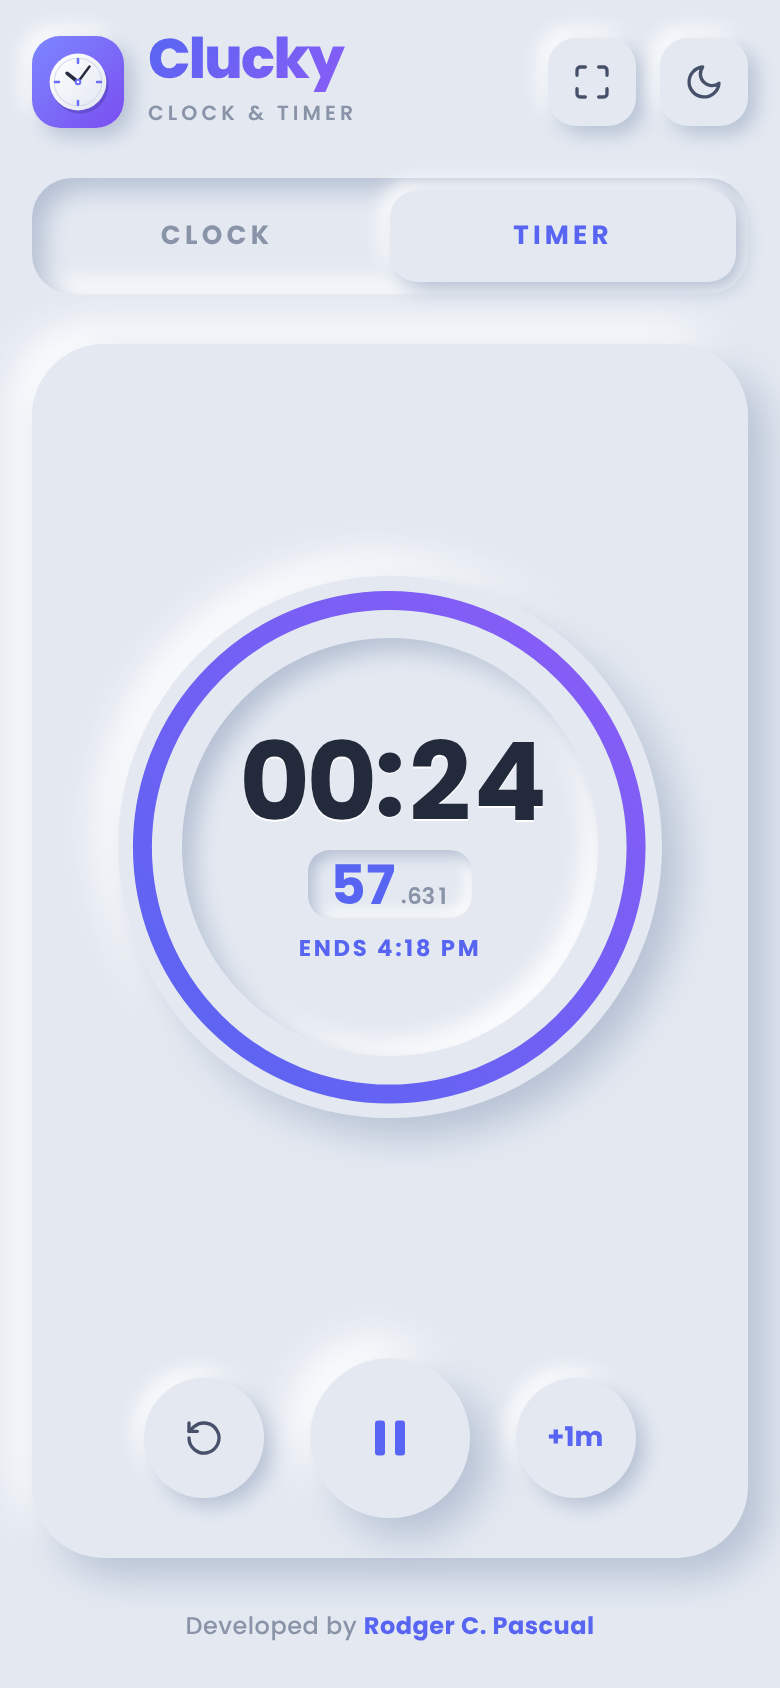
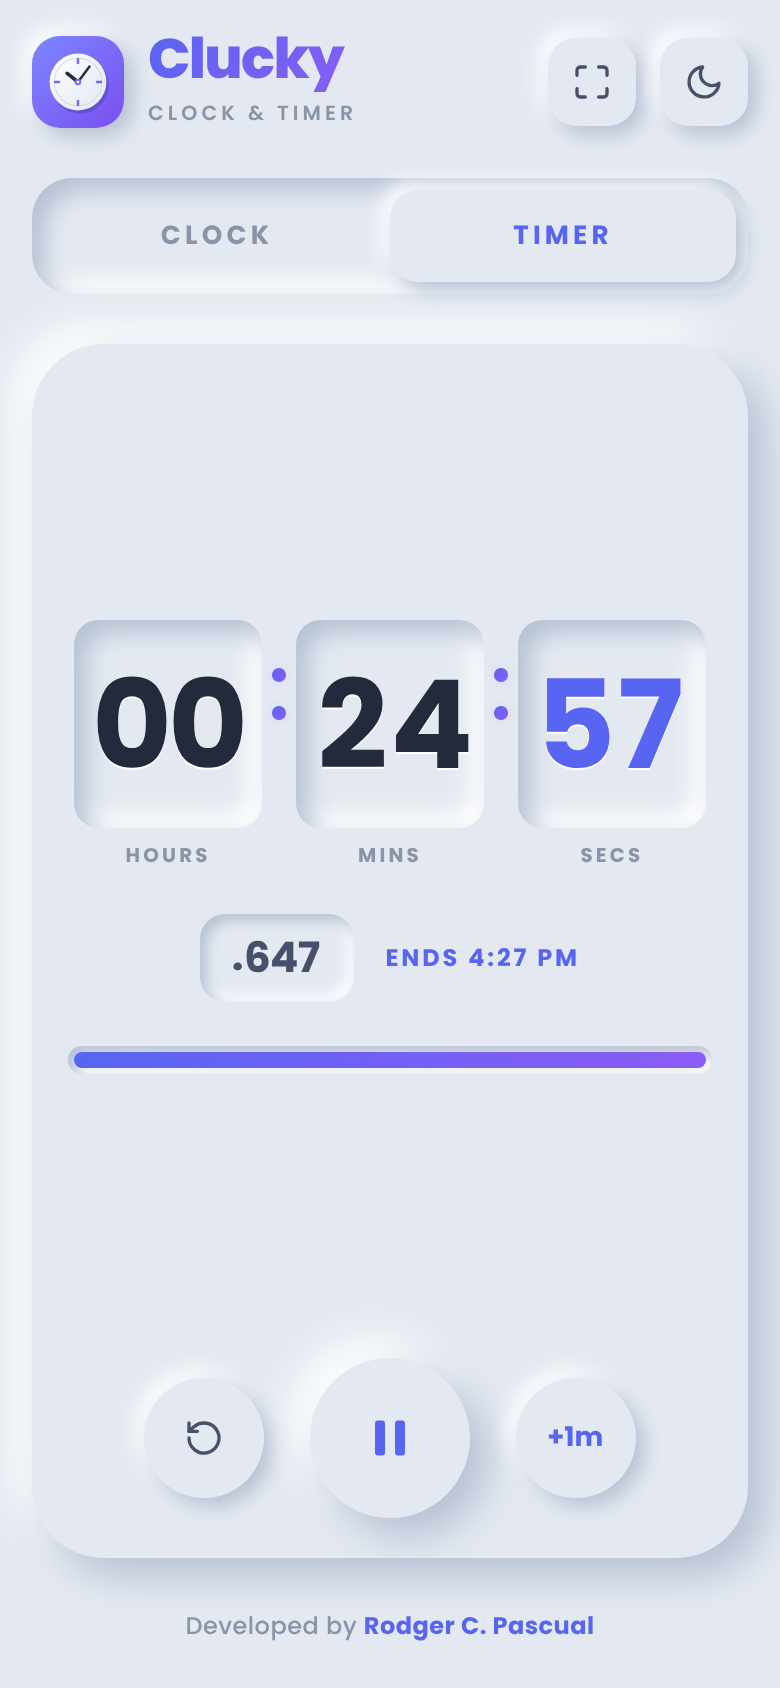
Replace timer ring with HH/MM/SS tiles and a draining progress bar
The running timer now matches the clock's look: hours, minutes and
seconds each sit in their own inset tile (with labels) inside the card,
milliseconds and the end time sit in a row below, and a progress bar
drains from full to empty as time runs out. Tiles and bar turn amber in
the last 10 seconds and red when time is up.

Sizes scale per screen (phones, landscape phones, tablets, desktop and
focus mode), and countdowns of 100+ hours shrink the tiles to fit.

Claude-Session: https://claude.ai/code/session_01WfvoktpLXkoSJQ23K4QYkQ

Changed region(s): [[0.0923, 0.3389, 0.9231, 0.6777]]

diff --git a/styles.css b/styles.css
@@ -541,83 +541,88 @@ select option { background: var(--bg); color: var(--text); }
 }
 .hint.bad { color: var(--danger); }
 
-/* ---------- Timer: ring ---------- */
-.ring {
-    position: relative;
-    container-type: inline-size;
-    width: min(84cqi, 20rem);
-    aspect-ratio: 1;
-    border-radius: 50%;
-}
-.ring svg {
-    position: absolute;
-    inset: 0;
+/* ---------- Timer: running display ---------- */
+.timer-run {
     width: 100%;
-    height: 100%;
-    transform: rotate(-90deg);
-}
-.ring-track { fill: none; stroke: var(--accent-soft); stroke-width: 6; }
-.ring-bar {
-    fill: none;
-    stroke: url(#ring-grad);
-    stroke-width: 7;
-    stroke-linecap: round;
-    stroke-dasharray: 571.77;
-    stroke-dashoffset: 0;
-    transition: stroke .3s ease;
-}
-.ring-inner {
-    position: absolute;
-    inset: 11.5%;
-    border-radius: 50%;
     display: flex;
     flex-direction: column;
     align-items: center;
-    justify-content: center;
-    gap: 2.5cqi;
+    gap: clamp(14px, 2.6vh, 26px);
 }
-.timer-digits {
-    font-size: 20cqi;
-    color: var(--text-strong);
-    text-shadow: 0 .015em 0 var(--sh-light);
-}
-/* 3+ digit hours (long target-time countdowns) */
-.timer-digits[data-len="6"] { font-size: 16.5cqi; }
-.timer-digits[data-len="7"] { font-size: 14cqi; }
-.timer-digits[data-len="8"] { font-size: 12.5cqi; }
+.timer-run.is-done { cursor: pointer; }
 
-/* Seconds + milliseconds, same style as the clock's seconds pill */
-.timer-sec-pill {
+.timer-tiles {
     display: flex;
-    align-items: baseline;
-    padding: .14em .42em;
-    border-radius: .4em;
-    font-size: 10cqi;
+    align-items: flex-start;
+    justify-content: center;
+    gap: .06em;
+    --tscale: 1;
+    font-size: min(16vw, 6rem);
+    font-size: calc(min(19cqi, 6.5rem) * var(--tscale));
 }
-.timer-sec-pill > .digits:first-child { color: var(--accent); }
-.ring.is-warn .timer-sec-pill > .digits:first-child { color: var(--warn); }
-.ring.is-done .timer-sec-pill > .digits:first-child { color: var(--danger); }
+/* Countdowns of 100+ hours get a third/fourth hour digit: shrink to fit. */
+.timer-tiles[data-hlen="3"] { --tscale: .86; }
+.timer-tiles[data-hlen="4"] { --tscale: .75; }
 
+.t-unit { display: flex; flex-direction: column; align-items: center; gap: .12em; }
+.t-label {
+    font-size: max(.62rem, .11em);
+    font-weight: 700;
+    letter-spacing: .16em;
+    text-transform: uppercase;
+    color: var(--muted);
+}
+.timer-tiles .colon { height: 1.2em; justify-content: center; }
+.timer-tiles .tile .digits { color: var(--text-strong); }
+.timer-tiles .sec-tile .digits { color: var(--accent); }
+
+.timer-sub {
+    display: flex;
+    flex-wrap: wrap;
+    align-items: center;
+    justify-content: center;
+    gap: 10px 16px;
+}
+.ms-pill {
+    padding: .3em .75em;
+    border-radius: .6em;
+    font-size: min(6.5cqi, 1.6rem);
+}
+.ms-pill .digits { color: var(--text); }
 .timer-label {
-    min-height: 1.3em;
-    font-size: 4.2cqi;
+    font-size: clamp(.75rem, 2.8cqi, 1.05rem);
     font-weight: 700;
     letter-spacing: .12em;
     text-transform: uppercase;
     color: var(--accent);
 }
 
-.ring.is-paused .timer-digits { animation: blink 1.6s ease-in-out infinite; }
-.ring.is-warn .ring-bar { stroke: var(--warn); }
-.ring.is-warn .timer-digits { color: var(--warn); }
-.ring.is-done .ring-bar { stroke: var(--danger); }
-.ring.is-done .timer-digits,
-.ring.is-done .timer-label { color: var(--danger); }
-.ring.is-done .timer-digits { animation: pulse-alert 1s ease-in-out infinite; }
-.ring.is-done { cursor: pointer; }
+.timer-track {
+    width: 100%;
+    max-width: 30rem;
+    height: 14px;
+    padding: 3px;
+    border-radius: 999px;
+    overflow: hidden;
+}
+.timer-fill {
+    width: 100%;
+    height: 100%;
+    border-radius: 999px;
+    background: linear-gradient(90deg, var(--accent), var(--accent-2));
+    transition: background .3s ease;
+}
+
+.timer-run.is-paused .timer-tiles .digits { animation: blink 1.6s ease-in-out infinite; }
+.timer-run.is-warn .timer-tiles .digits,
+.timer-run.is-warn .timer-label { color: var(--warn); }
+.timer-run.is-warn .timer-fill { background: var(--warn); }
+.timer-run.is-done .timer-tiles .digits,
+.timer-run.is-done .timer-label { color: var(--danger); }
+.timer-run.is-done .timer-tiles .tile { animation: pulse-alert 1s ease-in-out infinite; }
 
 @keyframes blink { 50% { opacity: .35; } }
-@keyframes pulse-alert { 50% { transform: scale(1.06); } }
+@keyframes pulse-alert { 50% { transform: scale(1.05); } }
 
 /* ---------- Timer: controls ---------- */
 .controls {
@@ -705,7 +710,8 @@ body.focus .sec-pill { font-size: min(10cqi, 9vh); }
 body.focus .ampm { font-size: min(4.5cqi, 3.6vh); }
 body.focus .sec-track { max-width: 34rem; }
 body.focus .clock-date { font-size: clamp(.95rem, 2.4vh, 1.4rem); }
-body.focus .ring { width: min(84cqi, 62vh); }
+body.focus .timer-tiles { font-size: calc(min(19cqi, 30vh) * var(--tscale)); font-size: calc(min(19cqi, 30svh) * var(--tscale)); }
+body.focus .timer-track { max-width: 44rem; }
 
 /* ---------- Landscape phones ---------- */
 @media (orientation: landscape) and (max-height: 560px) {
@@ -744,14 +750,16 @@ body.focus .ring { width: min(84cqi, 62vh); }
     .field input, .field select { height: 40px; }
     .target { gap: 8px; }
     .hint { margin: 0; }
-    .ring { width: min(50cqi, 48vh); width: min(50cqi, 48svh); }
+    .timer-tiles { font-size: calc(min(13cqi, 36vh - 72px) * var(--tscale)); font-size: calc(min(13cqi, 36svh - 72px) * var(--tscale)); }
+    .timer-run { gap: 10px; }
+    .timer-track { height: 10px; padding: 2px; }
     .controls { grid-column: 2; grid-row: 2; flex-direction: column; gap: 14px; min-height: 0; }
     .round { width: 50px; height: 50px; }
     .round.big { width: 64px; height: 64px; }
 
     body.focus .clock-main { font-size: min(20cqi, 48vh); font-size: min(20cqi, 48svh); }
     body.focus .sec-pill { font-size: min(7cqi, 11vh); font-size: min(7cqi, 11svh); }
-    body.focus .ring { width: min(60cqi, 78vh); width: min(60cqi, 78svh); }
+    body.focus .timer-tiles { font-size: calc(min(15cqi, 30vh) * var(--tscale)); font-size: calc(min(15cqi, 30svh) * var(--tscale)); }
 }
 
 /* ---------- Wide screens (landscape phones, tablets, desktops) ----------
@@ -805,7 +813,9 @@ body.focus .ring { width: min(84cqi, 62vh); }
     .target { max-width: 28rem; }
     .field input, .field select { height: 56px; font-size: 1.05rem; }
     .hint { font-size: 1rem; }
-    .ring { width: min(72cqi, 54vh); width: min(72cqi, 54svh); }
+    .timer-tiles { font-size: calc(min(19cqi, 19vh) * var(--tscale)); font-size: calc(min(19cqi, 19svh) * var(--tscale)); }
+    .ms-pill { font-size: min(5cqi, 3.4vh); font-size: min(5cqi, 3.4svh); }
+    .timer-track { max-width: 44rem; height: 16px; }
     .round { width: 72px; height: 72px; }
     .round.big { width: 98px; height: 98px; }
     .round.big .icon { width: 36px; height: 36px; }
@@ -813,7 +823,7 @@ body.focus .ring { width: min(84cqi, 62vh); }
     .footer { font-size: .85rem; }
 
     body.focus .clock-main { font-size: min(27cqi, 40vh); font-size: min(27cqi, 40svh); }
-    body.focus .ring { width: min(80cqi, 70vh); width: min(80cqi, 70svh); }
+    body.focus .timer-tiles { font-size: calc(min(19cqi, 30vh) * var(--tscale)); font-size: calc(min(19cqi, 30svh) * var(--tscale)); }
 }
 
 /* ---------- Notice ---------- */

diff --git a/app.js b/app.js
@@ -438,8 +438,6 @@
     // ---------------------------------------------------------------
     // Timer
     // ---------------------------------------------------------------
-    const RING_C = 2 * Math.PI * 91;
-
     const inputH = $('input-h');
     const inputM = $('input-m');
     const inputS = $('input-s');
@@ -452,9 +450,11 @@
     const inputTargetTime = $('input-target-time');
     const inputTargetTz = $('input-target-tz');
     const targetHint = $('target-hint');
-    const ring = $('timer-run');
-    const ringBar = $('ring-bar');
-    const timerDigits = $('timer-digits');
+    const runView = $('timer-run');
+    const timerTiles = $('timer-tiles');
+    const timerH = $('timer-h');
+    const timerM = $('timer-m');
+    const timerFill = $('timer-fill');
     const timerS = $('timer-s');
     const timerMs = $('timer-ms');
     const timerLabel = $('timer-label');
@@ -548,15 +548,16 @@
         updateTargetHint(Date.now());
     });
 
-    // Exact remaining time, laid out like the clock: "HH:MM" big, then "SS" and ".mmm".
-    // A 5-minute timer reads 00:05 · 00.000 when it starts and 00:00 · 00.000 when it rings.
+    // Exact remaining time as HH / MM / SS / .mmm.
+    // A 5-minute timer reads 00:05:00.000 when it starts and 00:00:00.000 when it rings.
     function formatCountdown(ms) {
         ms = Math.max(0, Math.floor(ms));
         const totalSec = Math.floor(ms / 1000);
-        const hm = `${pad(Math.floor(totalSec / 3600))}:${pad(Math.floor((totalSec % 3600) / 60))}`;
+        const hh = pad(Math.floor(totalSec / 3600));
+        const mm = pad(Math.floor((totalSec % 3600) / 60));
         const ss = pad(totalSec % 60);
         const mmm = '.' + pad(ms % 1000, 3);
-        return { hm, ss, mmm, full: `${hm}:${ss}` };
+        return { hh, mm, ss, mmm, full: `${hh}:${mm}:${ss}` };
     }
 
     function updateTargetHint(now) {
@@ -669,7 +670,7 @@
     btnPause.addEventListener('click', pauseTimer);
     btnReset.addEventListener('click', resetTimer);
     btnAdd.addEventListener('click', addMinute);
-    ring.addEventListener('click', () => { if (timer.state === 'done') stopAlarm(); });
+    runView.addEventListener('click', () => { if (timer.state === 'done') stopAlarm(); });
 
     const endFmt = (epoch) => new Date(epoch).toLocaleTimeString('en-US', {
         hour: 'numeric', minute: '2-digit', hour12: !settings.h24,
@@ -684,16 +685,16 @@
         modeGroup.hidden = !idle;
         setupDuration.hidden = !idle || settings.mode !== 'duration';
         setupTarget.hidden = !idle || settings.mode !== 'target';
-        ring.hidden = idle;
+        runView.hidden = idle;
 
         btnStart.hidden = !(idle || s === 'paused' || (s === 'done' && durationRun));
         btnStart.setAttribute('aria-label', s === 'paused' ? 'Resume' : s === 'done' ? 'Restart' : 'Start');
         btnPause.hidden = !(s === 'running' && durationRun);
         btnAdd.hidden = !(durationRun && (s === 'running' || s === 'paused' || s === 'done'));
 
-        ring.classList.toggle('is-paused', s === 'paused');
-        ring.classList.toggle('is-done', s === 'done');
-        if (s !== 'running') ring.classList.remove('is-warn');
+        runView.classList.toggle('is-paused', s === 'paused');
+        runView.classList.toggle('is-done', s === 'done');
+        if (s !== 'running') runView.classList.remove('is-warn');
 
         if (s === 'running') timerLabel.textContent = `Ends ${endFmt(timer.endAt)}`;
         else if (s === 'paused') timerLabel.textContent = 'Paused';
@@ -715,15 +716,17 @@
             : timer.state === 'paused' ? timer.remaining : 0;
 
         const c = formatCountdown(rem);
-        renderDigits(timerDigits, c.hm);
+        renderDigits(timerH, c.hh);
+        renderDigits(timerM, c.mm);
         renderDigits(timerS, c.ss);
         renderDigits(timerMs, c.mmm);
-        timerDigits.dataset.len = c.hm.length;
+        timerTiles.dataset.hlen = String(c.hh.length);
         const str = c.full;
 
+        // Progress bar drains from full to empty as time runs out.
         const progress = timer.total > 0 ? Math.min(1, rem / timer.total) : 0;
-        ringBar.style.strokeDashoffset = String(RING_C * (1 - progress));
-        ring.classList.toggle('is-warn', timer.state === 'running' && rem <= 10000);
+        timerFill.style.width = `${(progress * 100).toFixed(3)}%`;
+        runView.classList.toggle('is-warn', timer.state === 'running' && rem <= 10000);
 
         const title = timer.state === 'done' ? "⏰ Time's up · Clucky"
             : `${timer.state === 'paused' ? '❚❚' : '▶'} ${str} · Clucky`;

diff --git a/index.html b/index.html
@@ -178,24 +178,28 @@
                     </div>
 
                     <!-- Running display -->
-                    <div id="timer-run" class="ring neu-out" hidden>
-                        <svg viewBox="0 0 200 200" aria-hidden="true">
-                            <defs>
-                                <linearGradient id="ring-grad" x1="0" y1="0" x2="1" y2="1">
-                                    <stop offset="0" style="stop-color:var(--accent)"/>
-                                    <stop offset="1" style="stop-color:var(--accent-2)"/>
-                                </linearGradient>
-                            </defs>
-                            <circle class="ring-track" cx="100" cy="100" r="91"/>
-                            <circle id="ring-bar" class="ring-bar" cx="100" cy="100" r="91"/>
-                        </svg>
-                        <div class="ring-inner neu-in" id="ring-inner">
-                            <div id="timer-digits" class="digits timer-digits" role="timer">00:00</div>
-                            <div class="timer-sec-pill neu-in-sm">
-                                <span id="timer-s" class="digits">00</span><span id="timer-ms" class="digits ms">.000</span>
+                    <div id="timer-run" class="timer-run" hidden>
+                        <div id="timer-tiles" class="timer-tiles" role="timer">
+                            <div class="t-unit">
+                                <div class="tile neu-in"><span id="timer-h" class="digits">00</span></div>
+                                <span class="t-label">Hours</span>
                             </div>
+                            <div class="colon" aria-hidden="true"><i></i><i></i></div>
+                            <div class="t-unit">
+                                <div class="tile neu-in"><span id="timer-m" class="digits">00</span></div>
+                                <span class="t-label">Mins</span>
+                            </div>
+                            <div class="colon" aria-hidden="true"><i></i><i></i></div>
+                            <div class="t-unit">
+                                <div class="tile neu-in sec-tile"><span id="timer-s" class="digits">00</span></div>
+                                <span class="t-label">Secs</span>
+                            </div>
+                        </div>
+                        <div class="timer-sub">
+                            <div class="ms-pill neu-in-sm"><span id="timer-ms" class="digits">.000</span></div>
                             <div id="timer-label" class="timer-label">&nbsp;</div>
                         </div>
+                        <div class="timer-track neu-in-sm" aria-hidden="true"><div id="timer-fill" class="timer-fill"></div></div>
                     </div>
                 </div>
 

diff --git a/sw.js b/sw.js
@@ -1,6 +1,6 @@
 // Clucky service worker — offline support.
 // Bump VERSION whenever you change any app file so installed apps pick up the update.
-const VERSION = 'clucky-v5';
+const VERSION = 'clucky-v6';
 const FONT_CACHE = 'clucky-fonts';
 
 const SHELL = [

diff --git a/README.md b/README.md
@@ -14,7 +14,7 @@ A clean, neumorphic **world clock & countdown timer** that installs on your phon
 - **Countdown timer:**
   - *Duration* mode with quick presets (1m to 1h), plus pause, resume, and +1 minute.
   - *Target time* mode counts down to a date and time in any time zone.
-  - A progress ring that turns amber in the last 10 seconds.
+  - Hours, minutes and seconds each in their own tile, with milliseconds below and a progress bar that drains as time runs out. Everything turns amber in the last 10 seconds.
   - When the timer ends, an alarm beeps and the phone vibrates.
   - The timer keeps running if you close the app.
 - **Light and dark themes.** Follows your system setting by default; tap the moon or sun to switch.
